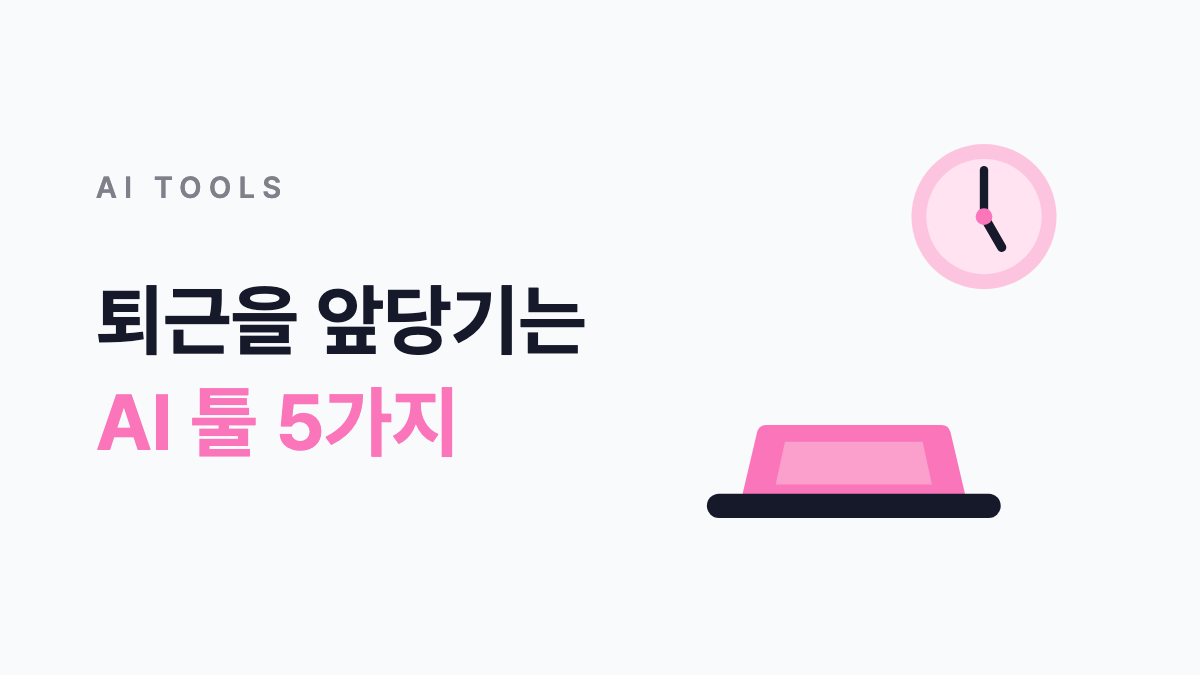
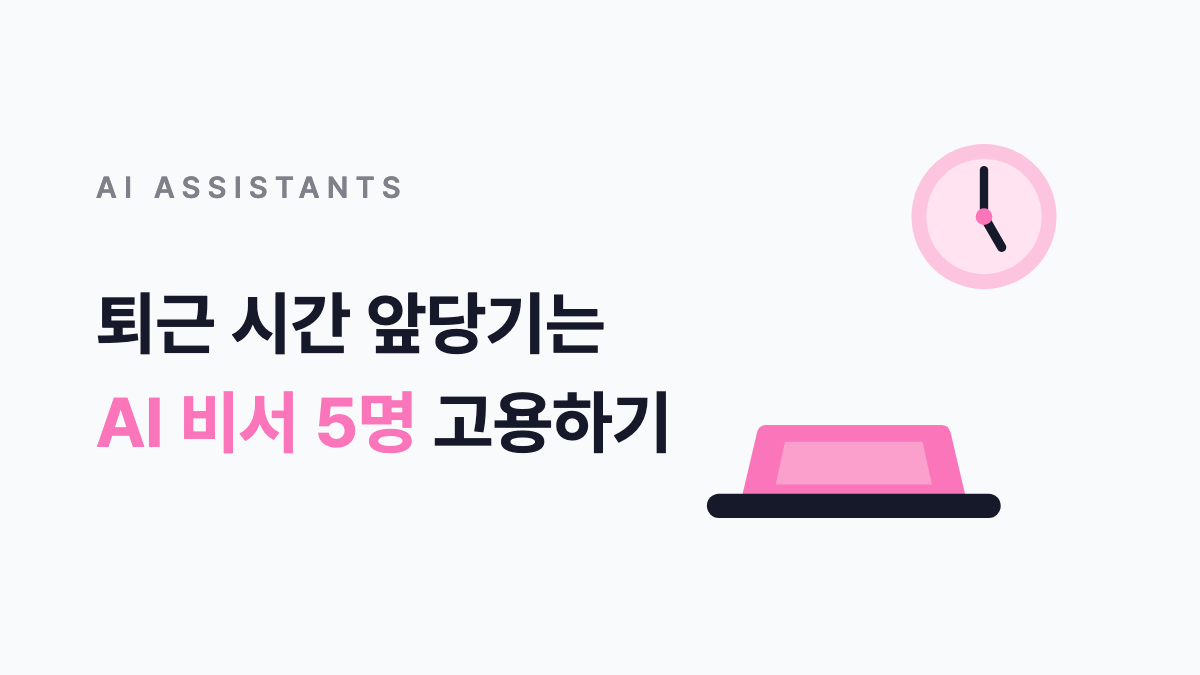
아카데미 인사이트: 제목을 '원장님 퇴근 시간 앞당기는 AI 비서 5명 고용하기'로 변경, 섹션 요약 한 줄로

Changed region(s): [[0.0925, 0.56, 0.555, 0.6844], [0.0925, 0.4044, 0.5242, 0.5289], [0.1233, 0.2489, 0.3392, 0.3111]]

diff --git a/r/ai-tools-5.html b/r/ai-tools-5.html
@@ -3,15 +3,15 @@
 <head>
 <meta charset="utf-8" />
 <meta name="viewport" content="width=device-width, initial-scale=1" />
-<title>원장님 퇴근을 앞당기는 AI 툴 5가지 - 크래빗 아카데미</title>
+<title>원장님 퇴근 시간 앞당기는 AI 비서 5명 고용하기 - 크래빗 아카데미</title>
 <meta name="description" content="상담 책자, 특강 포스터, 수업일지, 리포트카드, 학부모 문자. 원장님 하루를 AI 툴 5개로 따라가 봤어요" />
 <!-- 링크 미리보기(카카오톡 등) -->
 <meta property="og:type" content="article" />
 <meta property="og:site_name" content="크래빗 아카데미" />
-<meta property="og:title" content="원장님 퇴근을 앞당기는 AI 툴 5가지" />
+<meta property="og:title" content="원장님 퇴근 시간 앞당기는 AI 비서 5명 고용하기" />
 <meta property="og:description" content="상담 책자, 특강 포스터, 수업일지, 리포트카드, 학부모 문자. 원장님 하루를 AI 툴 5개로 따라가 봤어요" />
 <meta property="og:url" content="https://craftyourhabit.github.io/crabit-academy/r/ai-tools-5" />
-<meta property="og:image" content="https://craftyourhabit.github.io/crabit-academy/assets/og/ai-tools-5.png?v=20260930" />
+<meta property="og:image" content="https://craftyourhabit.github.io/crabit-academy/assets/og/ai-tools-5.png?v=20261001" />
 <meta property="og:image:width" content="1200" />
 <meta property="og:image:height" content="675" />
 <meta property="og:locale" content="ko_KR" />
@@ -156,9 +156,9 @@
 </nav>
 <main class="a-wrap">
   <div class="a-hero">
-    <img class="a-thumb" src="../assets/thumbs/hero/ai-tools-5.svg" alt="원장님 퇴근을 앞당기는 AI 툴 5가지" />
+    <img class="a-thumb" src="../assets/thumbs/hero/ai-tools-5.svg" alt="원장님 퇴근 시간 앞당기는 AI 비서 5명 고용하기" />
     <span class="a-eyebrow">인사이트</span>
-    <h1>원장님 퇴근을 앞당기는 AI 툴 5가지</h1>
+    <h1>원장님 퇴근 시간 앞당기는 AI 비서 5명 고용하기</h1>
     <p class="a-date"><time datetime="2026-09-30">2026.09.30</time></p>
     <p class="a-lead">수업은 끝났는데 퇴근은 아직인 밤, 원장님 책상 위에는 늘 비슷한 일이 남아 있어요. <strong>매번 같은 형식을 처음부터 다시 만드는 일</strong>입니다.</p>
     <p class="a-lead">판단은 원장님 몫이지만, 옮겨 적고 합치고 다시 쓰는 일은 이제 AI에게 넘길 수 있어요.</p>
@@ -186,7 +186,7 @@
 <h2>상담 전에 커리큘럼 책자 한 권</h2>
 <img class="ait-shot" src="../assets/articles/ai-tools-5/01-genspark.webp" alt="젠스파크 AI 슬라이드가 커리큘럼 엑셀로 중2 반별 로드맵 책자 페이지를 만든 예시 화면" />
 <p class="ait-cap">예시 화면이에요. 실제 화면 구성은 조금 다를 수 있어요.</p>
-<p class="ait-sum">학년별, 반별 커리큘럼만 올리면<br />한눈에 보이는 상담 책자가 나와요<br />말 대신 펼쳐서 보여 주세요</p>
+<p class="ait-sum">학년별, 반별 커리큘럼만 올리면 한눈에 보이는 상담 책자가 나와요. 말 대신 펼쳐서 보여 주세요.</p>
 <div class="callout ait-try">
 <p class="ait-try-h">오늘 5분이면 해 보는 첫 한 가지</p>
 <p>AI Slides에서 Creative 모드와 3:4 비율을 고르고, 커리큘럼 엑셀을 입력창에 끌어다 놓은 뒤 아래 문장을 붙여 넣어 보세요. 학원 이름과 학년만 바꾸면 됩니다.</p>
@@ -285,7 +285,7 @@
 <h2>특강 포스터 문구까지 AI가 채워요</h2>
 <img class="ait-shot" src="../assets/articles/ai-tools-5/02-miricanvas.webp" alt="미리캔버스 특강 템플릿에 미리클 AI 라이팅으로 제목과 혜택 문구를 채운 예시 화면" />
 <p class="ait-cap">예시 화면이에요. 실제 템플릿과 메뉴 위치는 다를 수 있어요.</p>
-<p class="ait-sum">템플릿 하나 고르고<br />미리클에 '겨울방학 특강' 한 줄이면<br />카드뉴스와 포스터 문구가 채워져요</p>
+<p class="ait-sum">템플릿 하나 고르고 미리클에 '겨울방학 특강' 한 줄이면 카드뉴스와 포스터 문구가 채워져요.</p>
 <div class="callout ait-try">
 <p class="ait-try-h">오늘 5분이면 해 보는 첫 한 가지</p>
 <p>특강 포스터 템플릿 하나를 열고, 편집기 왼쪽 아래 AI 버튼에서 AI 라이팅을 고른 뒤 아래 문장을 넣고 생성을 눌러 보세요.</p>
@@ -382,7 +382,7 @@
 <h2>수업은 녹음만, 일지는 알아서</h2>
 <img class="ait-shot" src="../assets/articles/ai-tools-5/03-tiro.webp" alt="티로 수업 녹음이 끝나고 수업일지가 만들어진 뒤 공유하기에서 노션으로 보내는 예시 화면" />
 <p class="ait-cap">예시 화면이에요. 실제 화면 구성은 조금 다를 수 있어요.</p>
-<p class="ait-sum">녹음이 끝나면 수업일지가 자동 정리돼요<br />버튼 한 번이면 노션에 저장되고<br />우리 학원 수업 기록이 매일 쌓여요</p>
+<p class="ait-sum">녹음이 끝나면 수업일지가 자동 정리돼요. 버튼 한 번이면 노션에 저장되고, 우리 학원 수업 기록이 매일 쌓여요.</p>
 <div class="callout ait-try">
 <p class="ait-try-h">오늘 5분이면 해 보는 첫 한 가지</p>
 <p>티로의 템플릿 관리에서 "수업일지" 템플릿을 만들고, 예시 문서 섹션에 아래처럼 실제 수업일지 한 편을 붙여 넣어 두세요. 티로가 이 모양을 보고 다음 녹음부터 같은 형식으로 정리합니다.</p>
@@ -493,7 +493,7 @@
 <h2>리포트카드 20장, 알아서 완성</h2>
 <img class="ait-shot" src="../assets/articles/ai-tools-5/04-claude-cowork.webp" alt="클로드 코워크가 출결, 성적, 과제 파일을 읽고 리포트카드 PDF 20개를 폴더에 저장한 예시 화면" />
 <p class="ait-cap">예시 화면이에요. 결과 파일 형식은 요청과 환경에 따라 달라질 수 있어요.</p>
-<p class="ait-sum">컴퓨터 속 출결, 성적 파일로<br />학생별 리포트카드를 만들어<br />폴더에 차곡차곡 저장해 둬요</p>
+<p class="ait-sum">컴퓨터 속 출결, 성적 파일로 학생별 리포트카드를 만들어 폴더에 차곡차곡 저장해 둬요.</p>
 <div class="callout ait-try">
 <p class="ait-try-h">오늘 5분이면 해 보는 첫 한 가지</p>
 <p>수업이 끝나면 출결, 성적, 과제 엑셀의 복사본을 담은 폴더를 코워크에 연결하고 아래 문장을 붙여 넣으세요. 작업 계획을 확인하고 실행을 허락하면, 정리하시는 동안 리포트카드가 폴더에 쌓여요.</p>
@@ -594,7 +594,7 @@
 <h2>한 번 보여 주면, 다음부턴 GPT가 해요</h2>
 <img class="ait-shot" src="../assets/articles/ai-tools-5/05-chatgpt-skill.webp" alt="챗GPT 스킬이 리포트카드 PDF를 붙인 학부모님 문자 초안 20개를 만들고 확인 후 보내기에서 멈춘 예시 화면" />
 <p class="ait-cap">예시 화면이에요. 실제 화면 구성은 조금 다를 수 있어요.</p>
-<p class="ait-sum">리포트카드 붙인 학부모 문자를 한 번 녹화하면<br />다음부터는 GPT가 그대로 따라 해요<br />원장님은 확인하고 보내기만 하세요</p>
+<p class="ait-sum">리포트카드 붙인 학부모 문자를 한 번 녹화하면 다음부터는 GPT가 그대로 따라 해요. 원장님은 확인하고 보내기만 하세요.</p>
 <div class="callout ait-try">
 <p class="ait-try-h">오늘 5분이면 해 보는 첫 한 가지</p>
 <p>1번 학생 문자를 한 번 녹화해 "리포트카드 문자" 스킬로 저장했다면, 새 Work 대화에서 @를 눌러 스킬을 고르고 아래 문장을 보내 보세요. 바뀌는 값만 알려 주면 같은 순서로 따라 합니다.</p>

diff --git a/admin-analytics.js b/admin-analytics.js
@@ -676,10 +676,10 @@ function anSheetRow(l) {
   if (!local || qs.get("mock") !== "1") return;
 
   const mockLinks = [
-    { id: "m1", created_at: "2026-10-01T03:00:00Z", name: "[인스타 캡션] 10.01 AI 툴 5가지 아티클 링크", target_kind: "article", target_label: "원장님 퇴근을 앞당기는 AI 툴 5가지",
+    { id: "m1", created_at: "2026-10-01T03:00:00Z", name: "[인스타 캡션] 10.01 AI 툴 5가지 아티클 링크", target_kind: "article", target_label: "원장님 퇴근 시간 앞당기는 AI 비서 5명 고용하기",
       base_url: AN_SITE + "r/ai-tools-5", utm_source: "instagram", utm_medium: "social", utm_campaign: "ai-tools-5", utm_content: "caption",
       utm_url: AN_SITE + "r/ai-tools-5?utm_source=instagram&utm_medium=social&utm_campaign=ai-tools-5&utm_content=caption" },
-    { id: "m2", created_at: "2026-10-01T03:05:00Z", name: "[인스타 매니챗 DM] 10.01 AI 툴 5가지 아티클 링크", target_kind: "article", target_label: "원장님 퇴근을 앞당기는 AI 툴 5가지",
+    { id: "m2", created_at: "2026-10-01T03:05:00Z", name: "[인스타 매니챗 DM] 10.01 AI 툴 5가지 아티클 링크", target_kind: "article", target_label: "원장님 퇴근 시간 앞당기는 AI 비서 5명 고용하기",
       base_url: AN_SITE + "r/ai-tools-5", utm_source: "instagram", utm_medium: "social", utm_campaign: "ai-tools-5", utm_content: "manychat-dm",
       utm_url: AN_SITE + "r/ai-tools-5?utm_source=instagram&utm_medium=social&utm_campaign=ai-tools-5&utm_content=manychat-dm" },
     { id: "m3", created_at: "2026-10-01T03:10:00Z", name: "[크래빗 아카데미 아티클] 10.01 AI 툴 5가지 올커니 입장 링크", target_kind: "external", target_label: "올커니 입장 링크",

diff --git a/assets/resources.js b/assets/resources.js
@@ -77,7 +77,7 @@ const RESOURCES = [
   {
     id: "ai-tools-5",
     category: "인사이트",
-    title: "원장님 퇴근을 앞당기는 AI 툴 5가지",
+    title: "원장님 퇴근 시간 앞당기는 AI 비서 5명 고용하기",
     sub: "상담 책자, 특강 포스터, 수업일지, 리포트카드, 학부모 문자. 원장님 하루를 AI 툴 5개로 따라가 봤어요",
     thumb: "assets/thumbs/hero/ai-tools-5.svg",
     access: "public",
